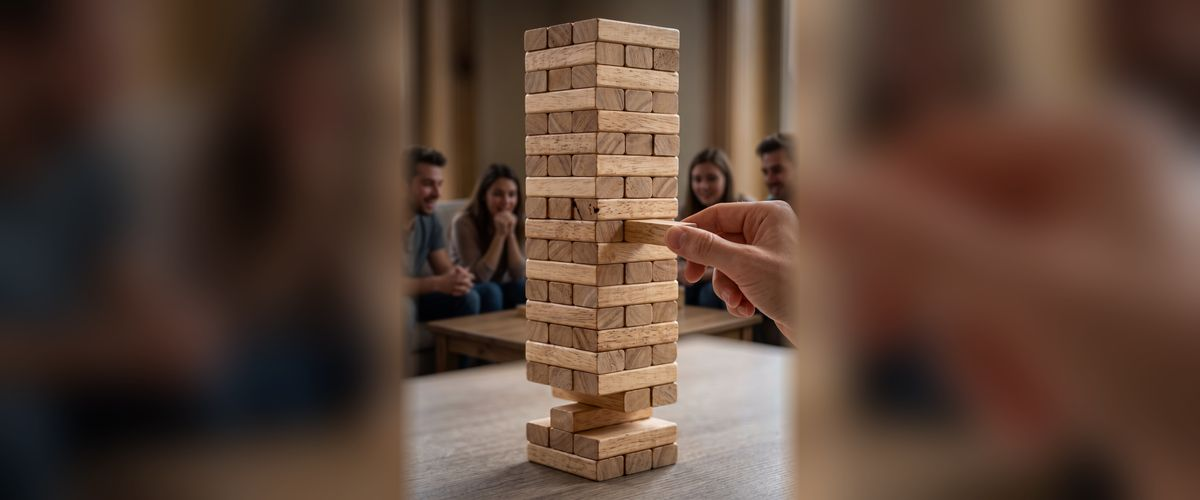
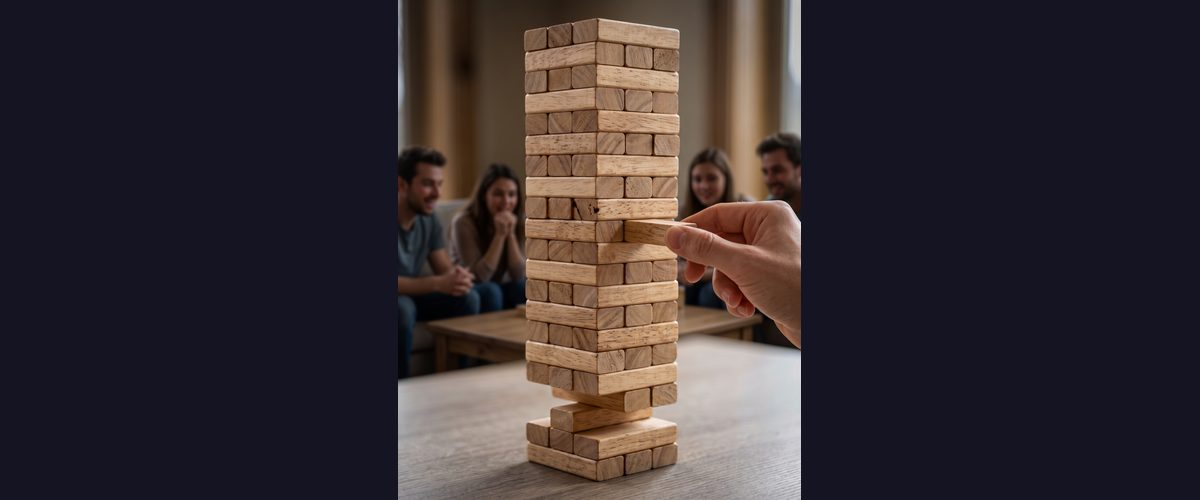
Jenga kapağı: bulanık/gölge dolgu kaldırıldı
Claude-Session: https://claude.ai/code/session_015xHCxsqnMCZLkthc1BHtYM

diff --git a/index.html b/index.html
@@ -3671,7 +3671,7 @@ const GAMES={
   tombala:{name:'Tombala',icon:'🎱',cat:'card',bg:'linear-gradient(150deg,#3a1030,#7a1f55 55%,#d1468c)',cover:'assets/covers/tombala.jpg'},
   adamasmaca:{name:'Adam Asmaca',icon:'🪢',cat:'board',bg:'linear-gradient(150deg,#1a1430,#3f2a6b 55%,#f0a23c)',cover:'assets/covers/adamasmaca.jpg'},
   passaparola:{name:'Passaparola',icon:'🔠',cat:'board',bg:'linear-gradient(150deg,#06243a,#0d4f6e 55%,#eab308)',cover:'assets/covers/passaparola.jpg'},
-  cenga:{name:'Jenga',icon:'🧱',cat:'board',bg:'linear-gradient(150deg,#2a1b0c,#6b4420 55%,#c99155)',cover:'assets/covers/cenga.jpg?v=20261025'},
+  cenga:{name:'Jenga',icon:'🧱',cat:'board',bg:'linear-gradient(150deg,#2a1b0c,#6b4420 55%,#c99155)',cover:'assets/covers/cenga.jpg?v=20261026'},
   langirt:{name:'Langırt',icon:'⚽',cat:'strategy',bg:'linear-gradient(150deg,#06301c,#10532f 55%,#2bbd6b)',cover:'assets/covers/langirt.jpg'},
   havahokeyi:{name:'Hava Hokeyi',icon:'🏒',cat:'strategy',bg:'linear-gradient(150deg,#041c2e,#0e3550 55%,#36b6f0)',cover:'assets/covers/havahokeyi.jpg'},
   fark:{name:'Fark Bulmaca',icon:'🔍',cat:'board',bg:'linear-gradient(150deg,#123049,#1d6f8f 55%,#67d3c6)',cover:'assets/covers/fark.jpg'},
